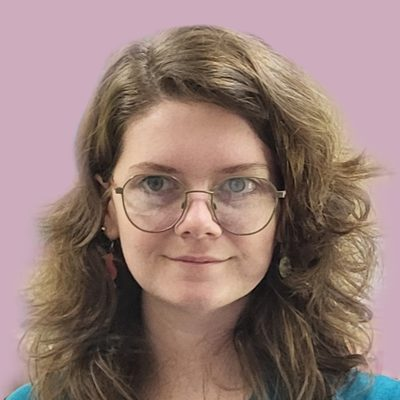
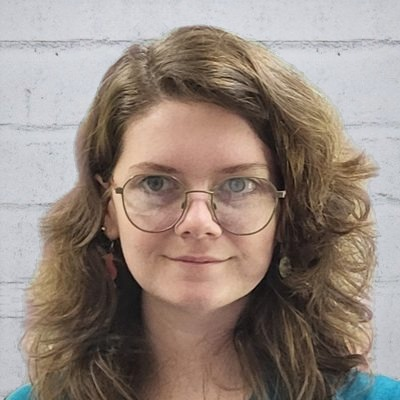
Corrected staff pictures, corrected typos about being open for 20 years

Changed region(s): [[0.0, 0.0, 1.0, 1.0]]

diff --git a/programs.html b/programs.html
@@ -34,7 +34,7 @@
           <h2>Preschool-3 Program (3&rsquo;s)</h2>
           <div class="pills"><span class="pill">8:45 AM &ndash; 12:30 PM</span></div>
         </div>
-        <div class="program-text"><p>For most children, the time they spend at A Little Schoolhouse is their first formal school experience. Our teachers take special care to provide a fun and nurturing environment to make this transition as smooth as possible. Although it may seem like fun and games to preschoolers, the morning is a time of learning. Games abound that teach letter recognition, shapes, colors, pre-reading and writing skills, and hands on exploration. <b>Children in the 3&rsquo;s program must be 3 years old by September 1st and must be fully potty trained.</b></p></div>
+        <div class="program-text"><p>For most children, the time they spend at A Little Schoolhouse is their first formal school experience. Our teachers take special care to provide a fun and nurturing environment to make this transition as smooth as possible. Although it may seem like fun and games to preschoolers, the morning is a time of learning. Games abound that teach letter recognition, shapes, colors, pre-reading and writing skills, and hands on exploration. <b>Children in the 3&rsquo;s program must be 3 years old by September 1st and must be fully independent in the bathroom.</b></p></div>
       </article>
       <article class="program">
         <div class="program-side bg-yellow">

diff --git a/staff.html b/staff.html
@@ -32,7 +32,7 @@
         <div>
           <div class="role"><span class="dot dot-red"></span><span>Owner &amp; Director</span></div>
           <h2>Ms. Shelly</h2>
-          <p>Ms. Shelly is the new owner of A Little Schoolhouse Christian Learning Academy and has been part of our school family for almost 20 years. She holds a teaching degree from State College of Florida and brings both classroom experience and a heart for children to everything she does. Ms. Shelly is committed to keeping our school a warm, faith-filled place where every child feels loved and ready to learn.</p>
+          <p>Ms. Shelly is the new owner of A Little Schoolhouse Christian Learning Academy and has been part of our school family since 2007. She holds a teaching degree from State College of Florida and brings both classroom experience and a heart for children to everything she does. Ms. Shelly is committed to keeping our school a warm, faith-filled place where every child feels loved and ready to learn.</p>
         </div>
       </div>
     </section>

diff --git a/index.html b/index.html
@@ -34,13 +34,13 @@
     <section class="container highlights">
       <div class="card">
         <span class="dot dot-lg dot-red"></span>
-        <h3>20+ years</h3>
+        <h3>Since 2007</h3>
         <p>Caring for Parrish families and their children.</p>
       </div>
       <div class="card">
         <span class="dot dot-lg dot-yellow"></span>
         <h3>Preschool &amp; VPK</h3>
-        <p>Programs for children ages 3 and up.</p>
+        <p>Programs for children ages 3&ndash;6.</p>
       </div>
       <div class="card">
         <span class="dot dot-lg dot-green"></span>
